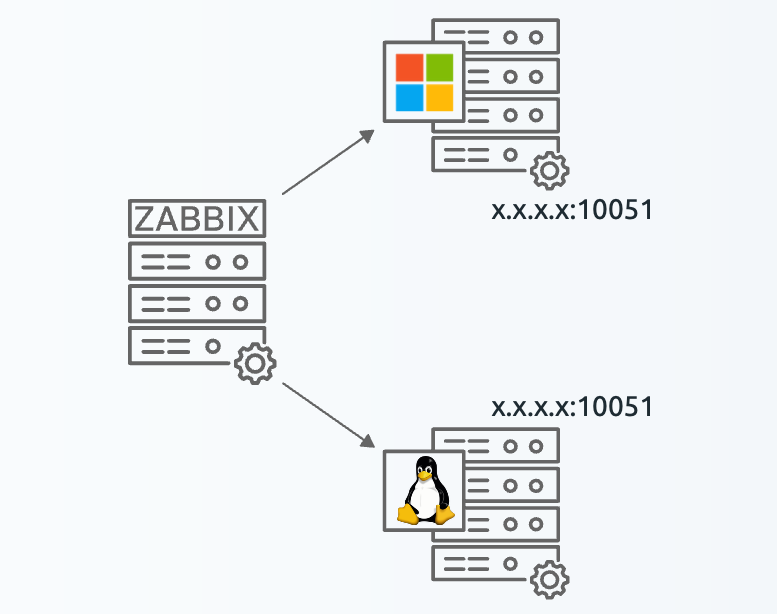
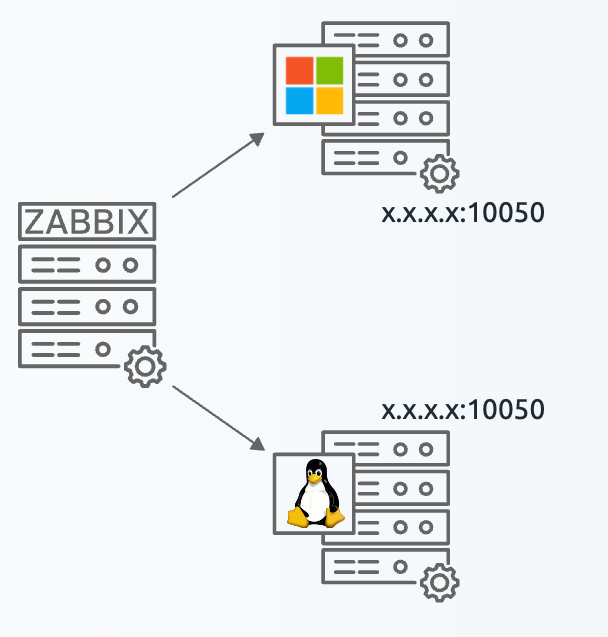
Zabbix agent active added

diff --git a/docs/ch04-zabbix-collecting-data/zabbix-agent-active.md b/docs/ch04-zabbix-collecting-data/zabbix-agent-active.md
@@ -1,6 +1,104 @@
 # Zabbix Agent Active monitoring
+In the previous part we installed our Zabbix agent and started monitoring a host in the `Passive` mode. When we use `Passive` mode the Zabbix server or proxy will connect to the Zabbix agent and request specific item data. The item data is returned within the same TCP session. From a security aspect this means that we need to allow our Zabbix servers or proxies to connect to many different servers. 
+
+For security reasons this might not be the best course of action. Instead let's look at the Zabbix agent in `Active` mode. In `Active` mode or Zabbix agent will be configured to initiate the connection to the Zabbix server or proxy. It will request its configuration data and receive it back in the same TCP session. After receiving its configuration it can then start sending the item data according to the configuration received. The connection as such is always iniated from the Zabbix agent side, meaning you will alow your many agents to connect to your Zabbix servers or proxies instead. 
+
+![Zabbix Agent active hosts](ch04.18-windows-linux-active-agent.png){ align=left }
+
+*4.18 Zabbix Agent active hosts*
+
+## Setting up the active agent
+It's possible to set-up a Zabbix agent to work in both passive and active mode at the same time. Sometimes, we see this as passive mode was being used but an active only check is added later. The Zabbix agent in active mode can execute all item keys, whereas the passive agent cannot execute log item keys. Another reason to prefer active mode in most cases. For clarity, in our example we will use a different linux and windows server for the active agent. We will call these hosts:
+
+- **zbx-agent-active-rocky**
+- **zbx-agent-active-windows**
+
+Because the Zabbix active agent will need to know where to request its configuration and where to start sending data, the setup for the active agent is quite different. The set-up process however is the same for both Linux and Windows. Let's start by editing the Zabbix agent configuration file.
+
+!!! info "open Zabbix agent configuration file"
+
+    Linux usually:
+
+    ``` vim /etc/zabbix/zabbix_agent2.conf
+    ```
+
+    Windows usually:
+
+    ``` Open C:\Program Files\Zabbix agent\zabbix_agent2.conf with a text editor
+    ```
+
+Once the configuration is open, there are two important parameters in the configuration file. First, let's make sure our Zabbix agent will know where to connect to.
+
+!!! info "edit ServerActive parameter"
+
+    ``` ServerActive=192.168.46.30
+    ```
+
+In the example `192.168.46.30` is the IP address of our Zabbix server (or proxy). Do not forget to remove `127.0.0.1` in this case. Its important to remember that our Zabbix agent in active mode will connect to every single IP address or DNS name entered in the `ServerActive=` parameter. Unlike `Server=` which functions as an allowlist. 
+
+Next up, our Zabbix agent needs to know which configuration data to collect. It will connect to the Zabbix server (or proxy) on the IP specified and send over its `Hostname=` parameter. By default this is set to `Hostname=Zabbix server` which is incorrect in all cases except the Zabbix server itself. Lets change the configuration. 
+
+!!! info "edit Hostname paramter"
+
+    Linux:
+
+    ``` Hostname=zbx-agent-active-rocky
+    ```
+
+    Windows
+
+    ``` Hostname=zbx-agent-active-windows
+    ```
+
+It is also possible to comment the `#Hostname=` parameters, in which case it will use the `system.hostname` item key to determine the hostname. This makes it easy for environments where the hostname is the same on the system as it will be in Zabbix (best practice). 
+
+There is also the `HostnameItem=` parameter which you can use to set your own item to determine the hostname used. This can be an existing item, but also a `UserParamter` (more on those later). With this functionality, you can even execute a bash or powershell script to set a custom hostname like that.
+
+With this configuration set you can restart the Zabbix agent to make the changes take effect. In `Windows` restart the service, for `Linux` issue the command below.
+
+!!! info "restart Zabbix agent"
+
+    ``` systemctl restart zabbix-agent2
+    ```
+
+This finalizes the configuration file changes. Now we need to configure the host in Zabbix.
+
+![Zabbix Agent active hosts in Zabbix](ch04.19-windows-linux-active-agent-host.png){ align=left }
+
+*4.19 Zabbix Agent active hosts in Zabbix*
+
+All we need to do here is make sure to match the hostname of what we configured in the Zabbix agent configuration file. Keep in mind that the `Hostname` field has to match the `Hostname=` parameter in the configuration file. The `Visible name` field does not have effect on the active agent functioning.
+
+We also add the host to the correct host group and that is all for now. 
+
+## Creating active items
+Now that these settings all configured we can now start to create some items on our active agent host in Zabbix frontend. Let's click on `Items` for our host and configure a new Zabbix active type items.
+
+![Zabbix Agent active item](ch04.20-active-agent-item.png){ align=left }
+
+*4.20 Zabbix Agent active item*
+
+Make sure to set the item `Type` to `Zabbix agent (active)`. Most item keys will be the same between `Passive` and `Active` mode, but the `Type` needs to be set correctly.
+
+Also, do not forget to add the tag to this item.
+
+![Zabbix Agent active item tag](ch04.20-active-agent-item-tag.png){ align=left }
+
+*4.20 Zabbix Agent active item tag*
+
+Your `ZBX` icon for this host should now turn green, even in active mode.
 
 ## Conclusion
+Zabbix agent in `Passive` and in `Active` mode are quite similar. Their main difference being their methods of communications and some different functionalities outside of their core functions being the same. One big difference we haven't mentioned yet however is timestamps. The Zabbix server or proxy communicating with a Zabbix agent in`Passive` mode adds the timestamp for a collected value at the Zabbix server or proxy side. In `Active` mode however the timestamp is added directly upon item value collection on the Zabbix agent side. This makes the Zabbix agent in `Active` mode more accurate with timestamps, but more sensitive for incorrect time settings on your monitoring targets. Keep in mind to set-up NTP when using the Zabbix agent in `Active` mode, a good idea even outside of Zabbix monitoring. The Zabbix agent in `Active` mode will always use UTC+0 and send over the timestamp in unixtime.
+
+Finally, let's do a bit of a comparison between the two modes.
+
+|  | Active Zabbix agent | Passive Zabbix agent |
+| :-------------- | :-------------- | :-------------- |
+| Timestamp | Zabbix agent | Zabbix server or proxy |
+| (event)log items | Supported | Not supported |
+| Port | No port listening, connect to 10051 | Listening on 10050 |
+| Hostname | Has to match | Can be anything |
 
 ## Questions
 

diff --git a/docs/ch04-zabbix-collecting-data/zabbix-agent-passive.md b/docs/ch04-zabbix-collecting-data/zabbix-agent-passive.md
@@ -15,6 +15,7 @@ Now, we are ready to start monitoring an actual system.
 We have prepared an example setup in our Book LAB environment.
 
 ![Zabbix Agent passive hosts](ch04.14-windows-linux-agent.png){ align=left }
+
 *4.14 Zabbix Agent passive hosts*
 
 What we can see here is a setup you might see in any datacenter or office server cabinet. We have a Zabbix server monitoring one Windows server and one Linux server directly (or through a proxy). We call Zabbix a network monitoring solution as it communicates over the network. In Zabbix we have two methods of communication.
@@ -137,6 +138,7 @@ If you do not restart, the changes will not take effect.
 On the Zabbix server side we can now create a new host to monitor. Let's call it `zbx-agent-passive-rocky` and let's add the interface. 
 
 ![Zabbix Agent passive Linux host](ch04.15-passive-agent-host.png){ align=left }
+
 *4.15 Zabbix Agent passive Linux host*
 
 With the host added, correctly with an interface, we can now start monitoring. To do so, let's create one `Zabbix agent` item type as an example. For your new host `zbx-agent-passive-rocky` in the Zabbix frontend, click on `Items` and then `Create item` in the top right corner. 
@@ -144,11 +146,13 @@ With the host added, correctly with an interface, we can now start monitoring. T
 Let's create an item `System hostname`, making sure that if we have more system items alphabetical sorting will group them together. For `Passive` Zabbix agent the type `Zabbix agent` is used and we have to specific an `Interface`. We will use the item key `system.hostname`.
 
 ![Zabbix Agent passive Linux host item](ch04.16-passive-agent-item.png){ align=left }
+
 *4.16 Zabbix Agent passive Linux host item*
 
 Do not forget to add the standard `Component` tag to the item to follow the best practise.
 
 ![Zabbix Agent passive Linux host item tag](ch04.17-passive-agent-item-tag.png){ align=left }
+
 *4.17 Zabbix Agent passive Linux host item tag*
 
 ## Conclusion
